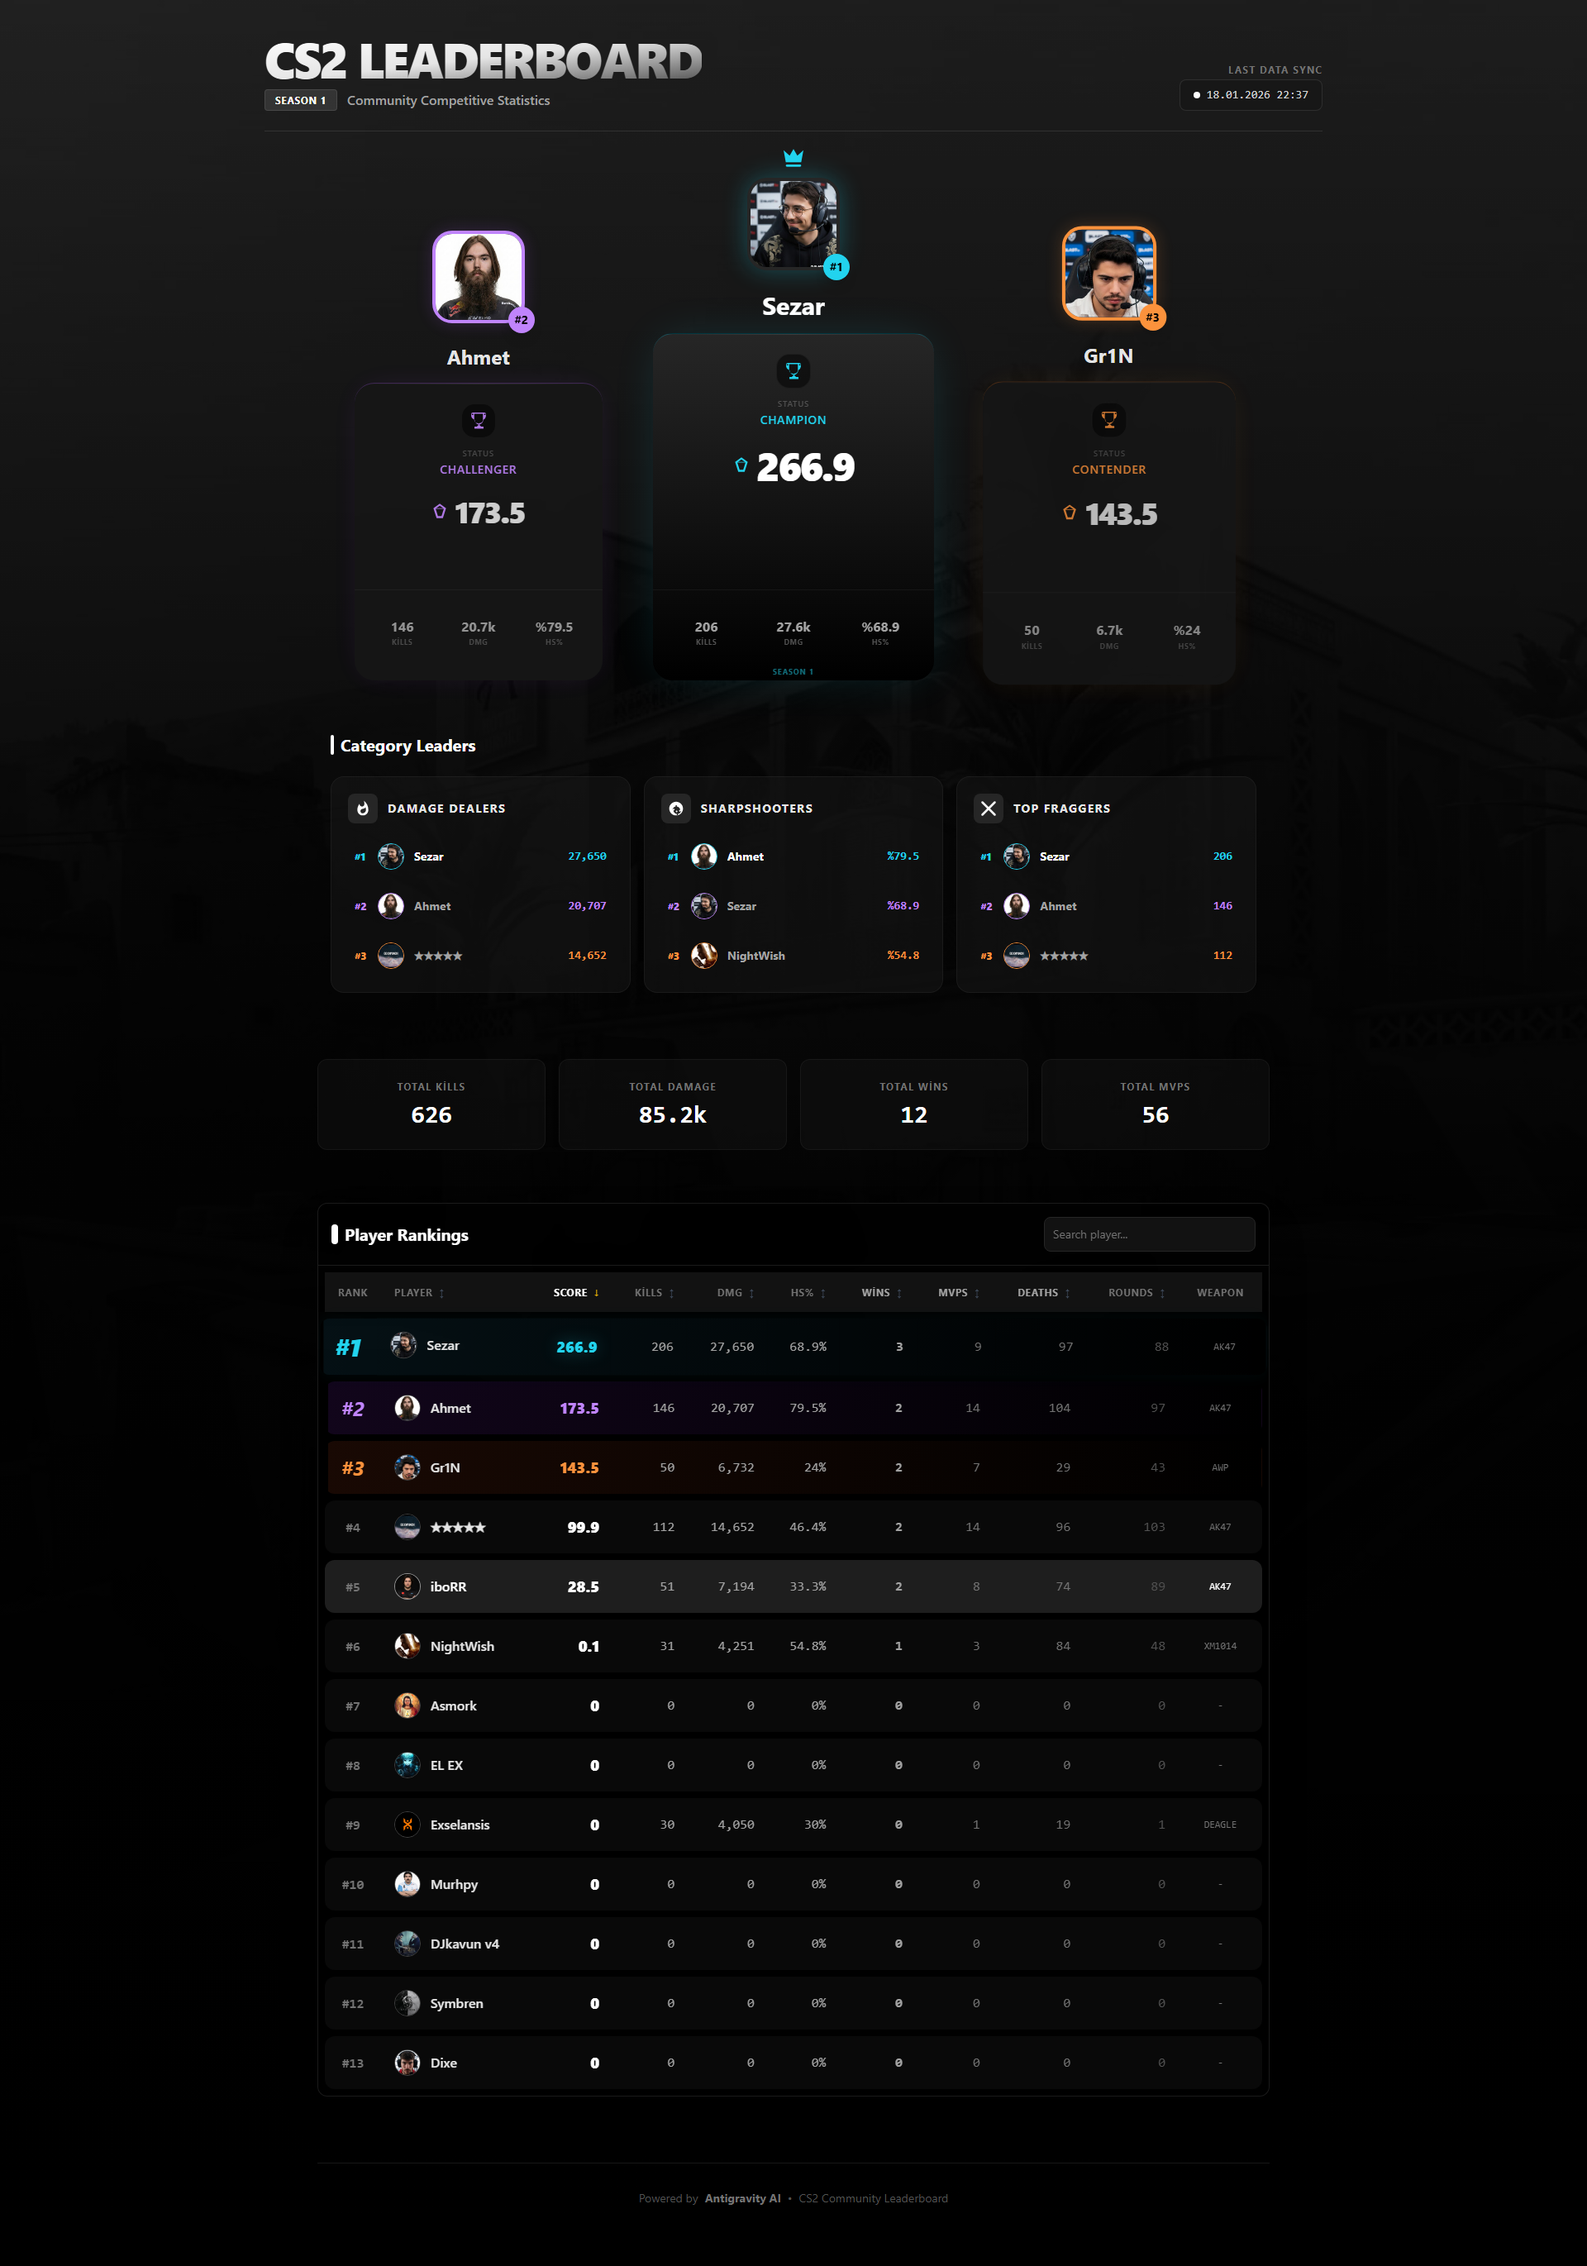
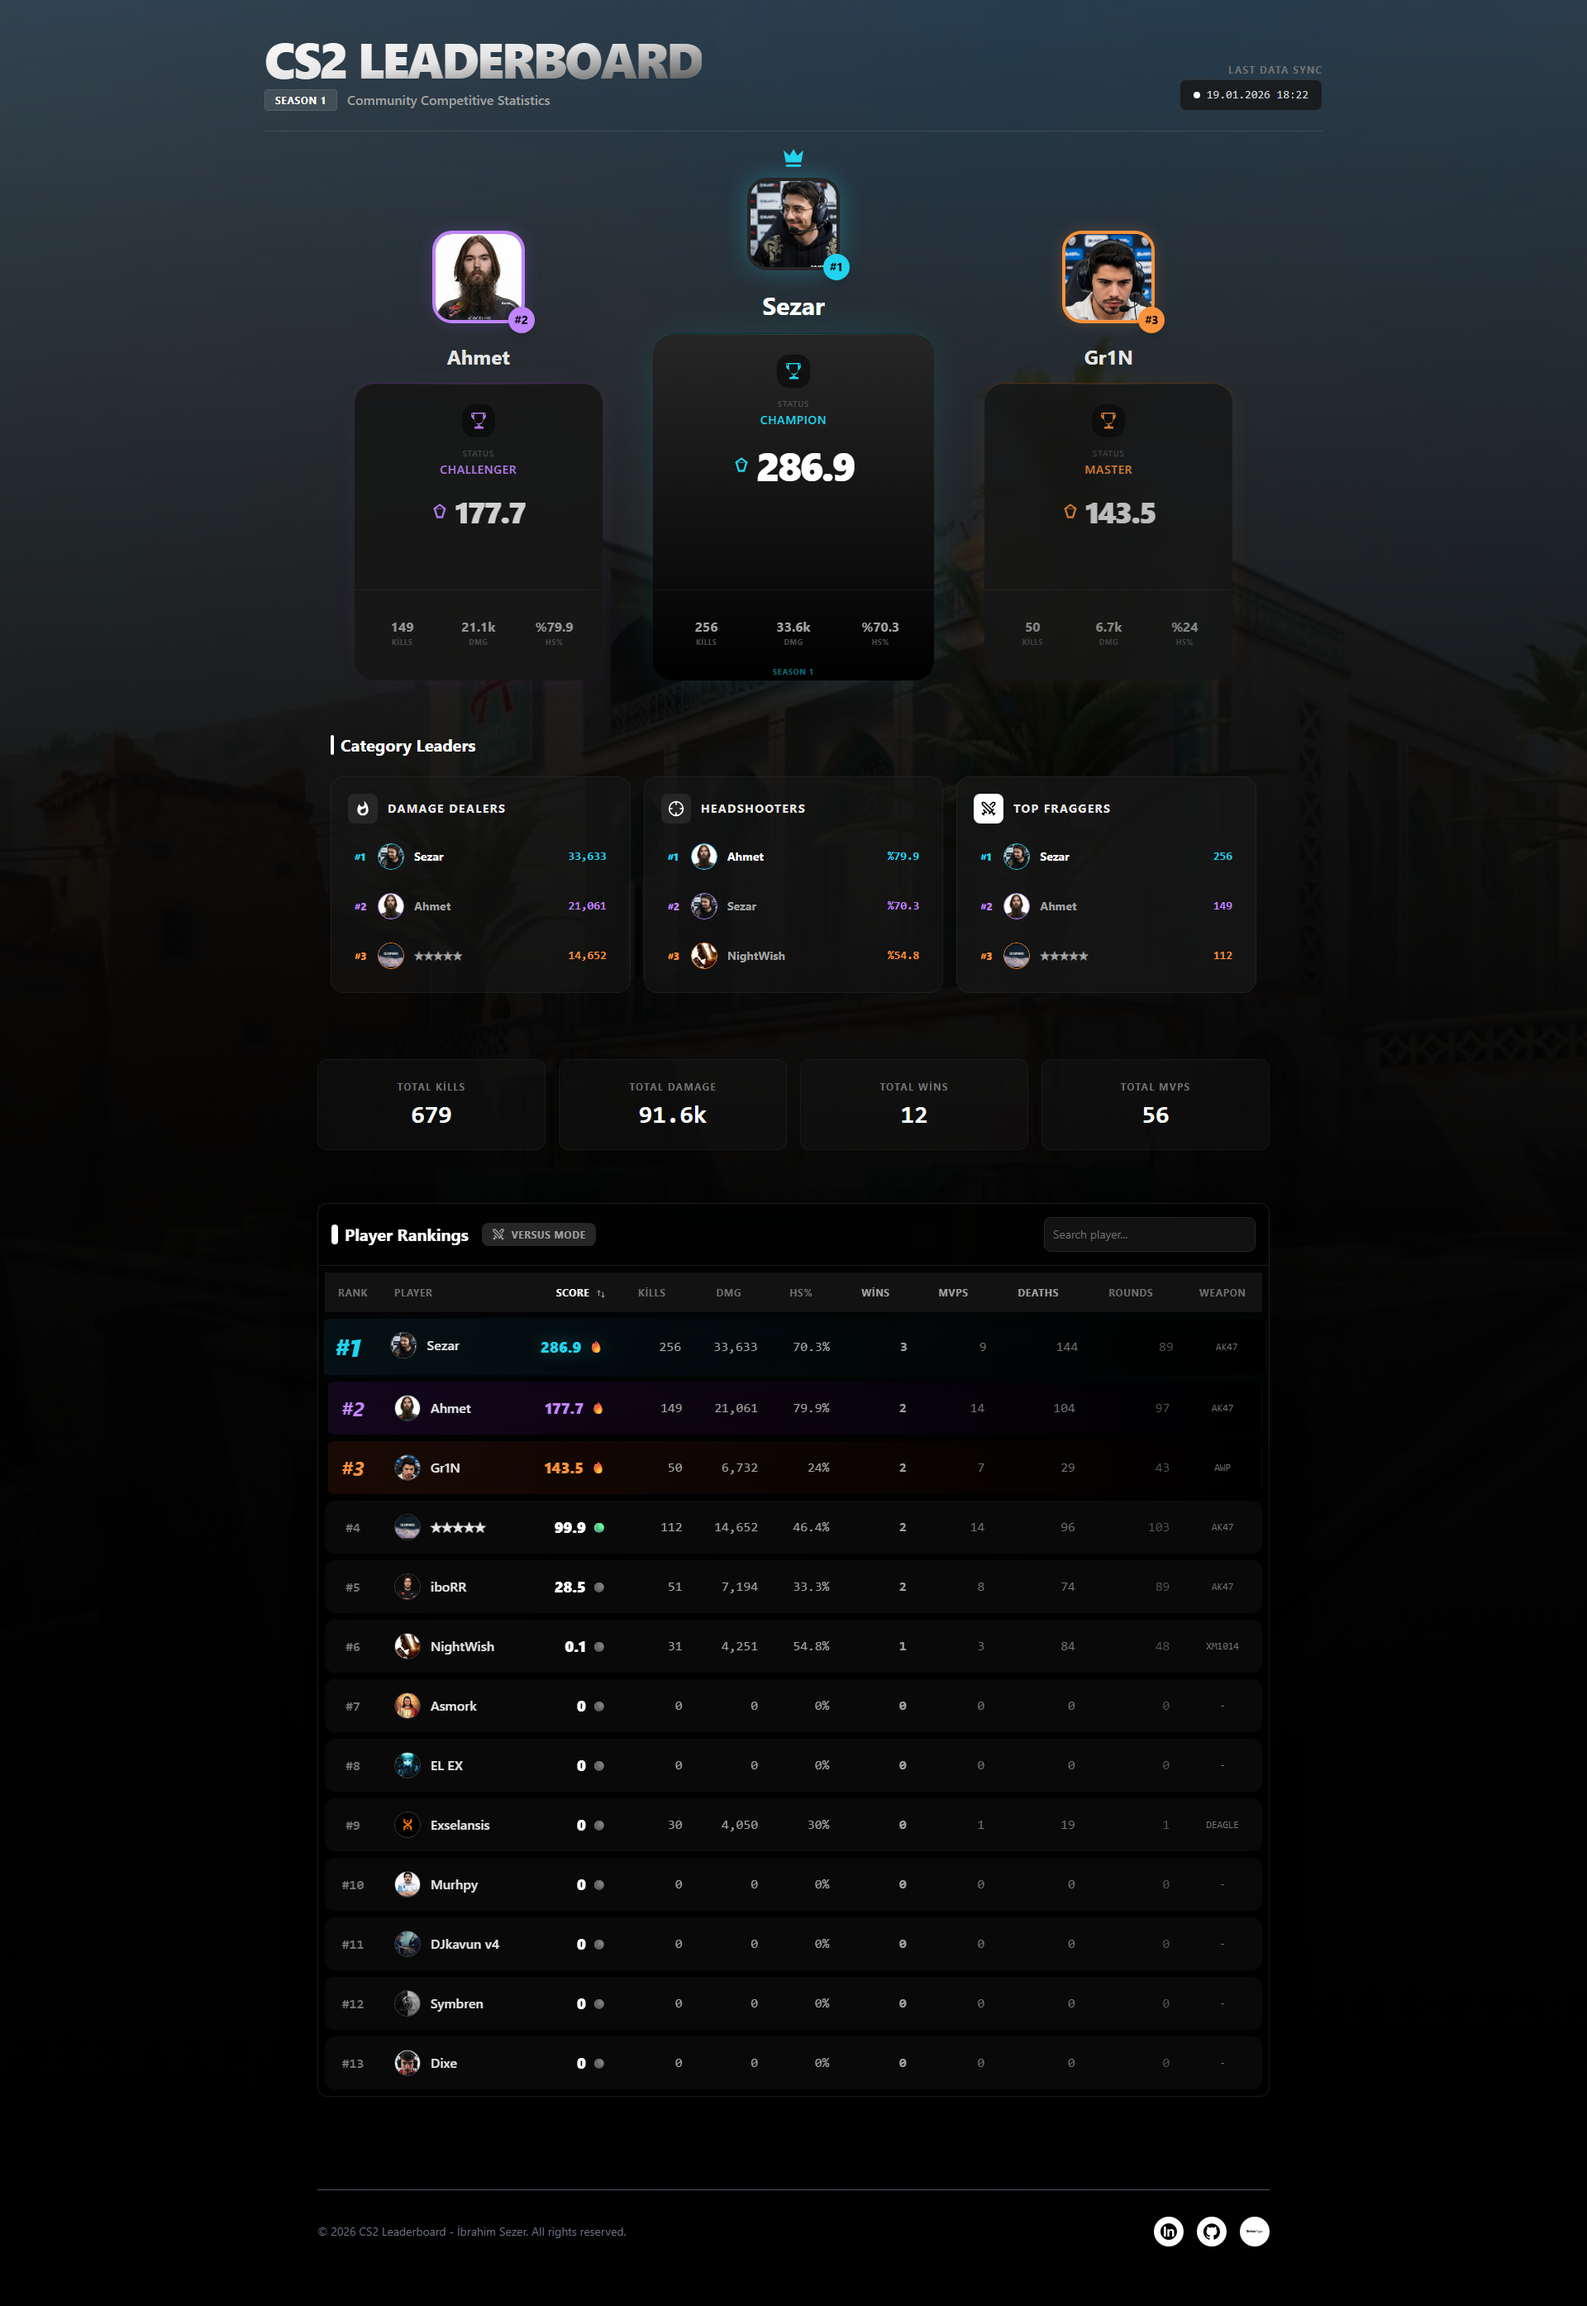
Add history chart for old stats | Update background image for colorful

diff --git a/src/components/HistoryChart.jsx b/src/components/HistoryChart.jsx
@@ -1,0 +1,104 @@
+import React, { useState } from 'react';
+import { AreaChart, Area, XAxis, YAxis, CartesianGrid, Tooltip, ResponsiveContainer } from 'recharts';
+
+function HistoryChart({ history }) {
+    const [metric, setMetric] = useState('score');
+
+    // Mock data if history is empty (for visualization during dev)
+    const data = (history && history.length > 1) ? history : [
+        { date: '2024-01-01', score: 100, kda: 1.2, kills: 10 },
+        { date: '2024-01-05', score: 120, kda: 1.3, kills: 25 },
+        { date: '2024-01-10', score: 115, kda: 1.25, kills: 40 },
+        { date: '2024-01-15', score: 140, kda: 1.5, kills: 60 },
+        { date: 'Today', score: 155, kda: 1.6, kills: 80 },
+    ];
+
+    // Config for metrics
+    const metrics_config = {
+        score: { label: 'Rating', color: '#22d3ee' }, // Cyan
+        kda: { label: 'K/D Ratio', color: '#f472b6' }, // Pink
+        kills: { label: 'Total Kills', color: '#a3e635' } // Lime
+    };
+
+    const currentConfig = metrics_config[metric];
+
+    const CustomTooltip = ({ active, payload, label }) => {
+        if (active && payload && payload.length) {
+            return (
+                <div className="bg-neutral-900 border border-white/10 p-3 rounded-lg shadow-xl">
+                    <p className="text-neutral-400 text-xs mb-1">{label}</p>
+                    <p className="text-white font-bold text-sm" style={{ color: currentConfig.color }}>
+                        {currentConfig.label}: {payload[0].value}
+                    </p>
+                </div>
+            );
+        }
+        return null;
+    };
+
+    return (
+        <div className="w-full bg-neutral-800/20 rounded-xl border border-white/5 p-4 mt-6">
+            <div className="flex items-center justify-between mb-6">
+                <h3 className="text-sm font-bold text-neutral-400 uppercase tracking-widest">
+                    Performance Trend
+                </h3>
+
+                {/* Metric Toggles */}
+                <div className="flex bg-black/40 rounded-lg p-1 gap-1">
+                    {Object.keys(metrics_config).map((key) => (
+                        <button
+                            key={key}
+                            onClick={() => setMetric(key)}
+                            className={`px-3 py-1 text-[10px] font-bold uppercase rounded-md transition-all ${metric === key
+                                    ? 'bg-neutral-700 text-white shadow-sm'
+                                    : 'text-neutral-500 hover:text-neutral-300'
+                                }`}
+                        >
+                            {metrics_config[key].label}
+                        </button>
+                    ))}
+                </div>
+            </div>
+
+            <div className="h-48 w-full">
+                <ResponsiveContainer width="100%" height="100%">
+                    <AreaChart data={data} margin={{ top: 5, right: 0, left: -20, bottom: 0 }}>
+                        <defs>
+                            <linearGradient id={`gradient-${metric}`} x1="0" y1="0" x2="0" y2="1">
+                                <stop offset="5%" stopColor={currentConfig.color} stopOpacity={0.3} />
+                                <stop offset="95%" stopColor={currentConfig.color} stopOpacity={0} />
+                            </linearGradient>
+                        </defs>
+                        <CartesianGrid strokeDasharray="3 3" stroke="#333" vertical={false} />
+                        <XAxis
+                            dataKey="date"
+                            stroke="#525252"
+                            fontSize={10}
+                            tickLine={false}
+                            axisLine={false}
+                            tickFormatter={(val) => val.split('-').slice(1).join('/')} // Show MM/DD
+                        />
+                        <YAxis
+                            stroke="#525252"
+                            fontSize={10}
+                            tickLine={false}
+                            axisLine={false}
+                            domain={['auto', 'auto']}
+                        />
+                        <Tooltip content={<CustomTooltip />} cursor={{ stroke: 'white', strokeWidth: 1, strokeDasharray: '4 4' }} />
+                        <Area
+                            type="monotone"
+                            dataKey={metric}
+                            stroke={currentConfig.color}
+                            strokeWidth={3}
+                            fill={`url(#gradient-${metric})`}
+                            animationDuration={1500}
+                        />
+                    </AreaChart>
+                </ResponsiveContainer>
+            </div>
+        </div>
+    );
+}
+
+export default HistoryChart;

diff --git a/src/components/PlayerModal.jsx b/src/components/PlayerModal.jsx
@@ -2,6 +2,7 @@ import React, { useRef, useState } from 'react';
 import html2canvas from 'html2canvas';
 import { Radar, RadarChart, PolarGrid, PolarAngleAxis, PolarRadiusAxis, ResponsiveContainer } from 'recharts';
 import { X, Target, MapPin, Zap, Shield, Trophy, Activity, Ghost, UserX, LayoutGrid, Download, Loader } from 'lucide-react';
+import HistoryChart from './HistoryChart';
 
 function PlayerModal({ player, onClose }) {
     const modalRef = useRef(null);
@@ -195,6 +196,11 @@ function PlayerModal({ player, onClose }) {
                                 <p className="text-[10px] text-neutral-500 uppercase font-bold">Rounds</p>
                             </div>
                         </div>
+                    </div>
+
+                    {/* Trend Chart */}
+                    <div className="mb-8 animate-fade-in-up delay-200">
+                        <HistoryChart history={player.history} />
                     </div>
 
                     {/* Badges Section */}

diff --git a/src/App.jsx b/src/App.jsx
@@ -27,7 +27,7 @@ function App() {
         <img
           src={`${import.meta.env.BASE_URL}bg-hero.png`}
           alt="Background"
-          className="w-full h-full object-cover opacity-20 mask-image-gradient grayscale"
+          className="w-full h-full object-cover opacity-40 mask-image-gradient"
           style={{ maskImage: 'linear-gradient(to bottom, black 0%, transparent 100%)', WebkitMaskImage: 'linear-gradient(to bottom, black 0%, transparent 100%)' }}
         />
         <div className="absolute inset-0 bg-gradient-to-b from-black/20 via-black/80 to-black"></div>

diff --git a/scripts/data-parse.py b/scripts/data-parse.py
@@ -15,6 +15,7 @@ BASELINE_FILE = "scripts/baseline.json"
 OUTPUT_FILE = "src/data.json"
 
 RESET_SEASON = False
+HISTORY_LIMIT = 30
 
 WEAPONS = [
     "knife",
@@ -159,6 +160,15 @@ def main():
     print("📸 Profil bilgileri (İsim & Foto) güncelleniyor...")
     all_steam_ids = list(players.values())
     profiles_info = fetch_player_profiles(all_steam_ids)
+
+    # 1.5 Geçmiş Verileri Yükle (History)
+    print("📜 Geçmiş veriler yükleniyor...")
+    existing_data = load_json(OUTPUT_FILE)
+    existing_histories = {}
+    if "players" in existing_data:
+        for p in existing_data["players"]:
+            if "nickname" in p:
+                existing_histories[p["nickname"]] = p.get("history", [])
 
     # 2. Baseline Yükle
     baseline_data = load_json(BASELINE_FILE)
@@ -318,6 +328,31 @@ def main():
                 else 0
             )
             season_stats["score"] = calculate_score(season_stats)
+
+            # --- HISTORY TRACKING ---
+            today_str = datetime.now().strftime("%Y-%m-%d")
+            player_history = existing_histories.get(nickname, [])
+
+            new_history_entry = {
+                "date": today_str,
+                "score": season_stats["score"],
+                "kda": season_stats["kda"],
+                "kills": season_stats["kills"],
+                "rounds": season_stats["rounds"],
+            }
+
+            # Check if last entry is today
+            if player_history and player_history[-1]["date"] == today_str:
+                player_history[-1] = new_history_entry  # Update today's entry
+            else:
+                player_history.append(new_history_entry)  # Add new day
+
+            # Limit history size
+            if len(player_history) > HISTORY_LIMIT:
+                player_history = player_history[-HISTORY_LIMIT:]
+
+            season_stats["history"] = player_history
+            # ------------------------
 
             current_season_stats.append(season_stats)
         else:
